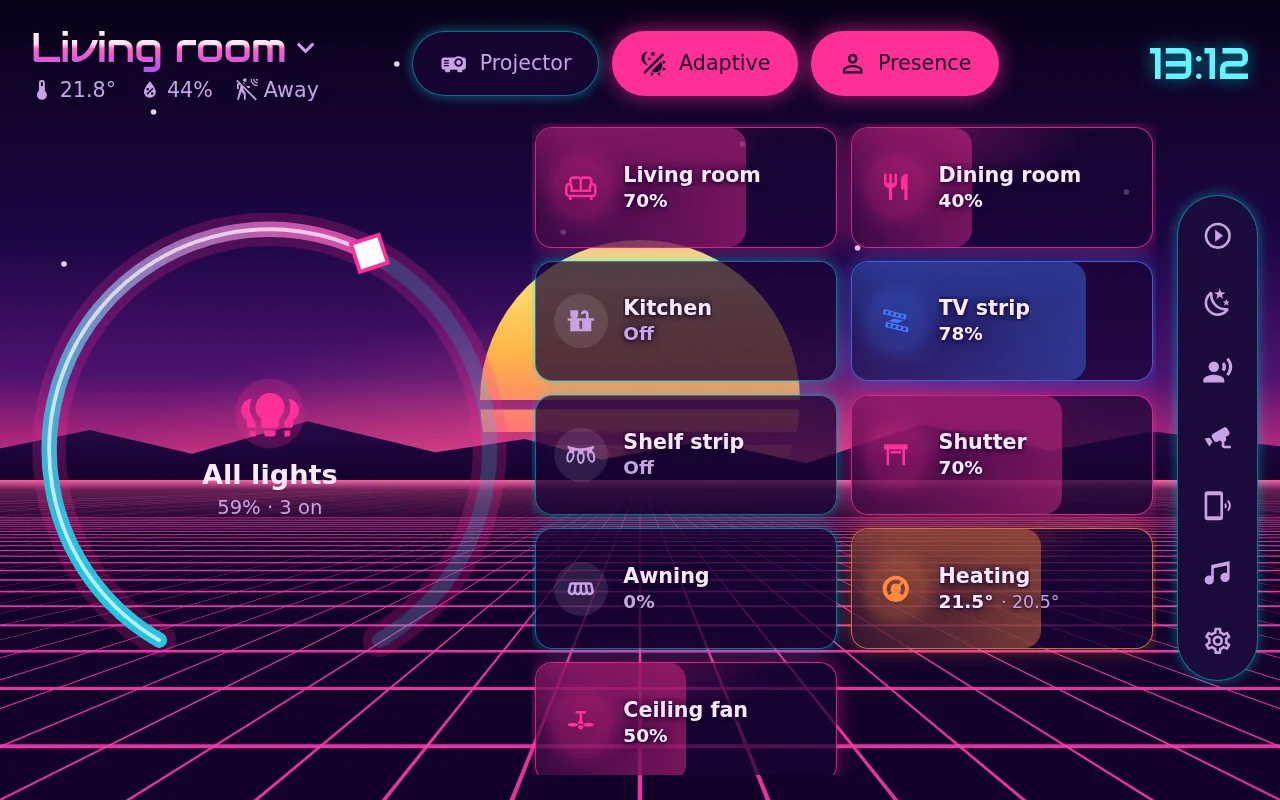
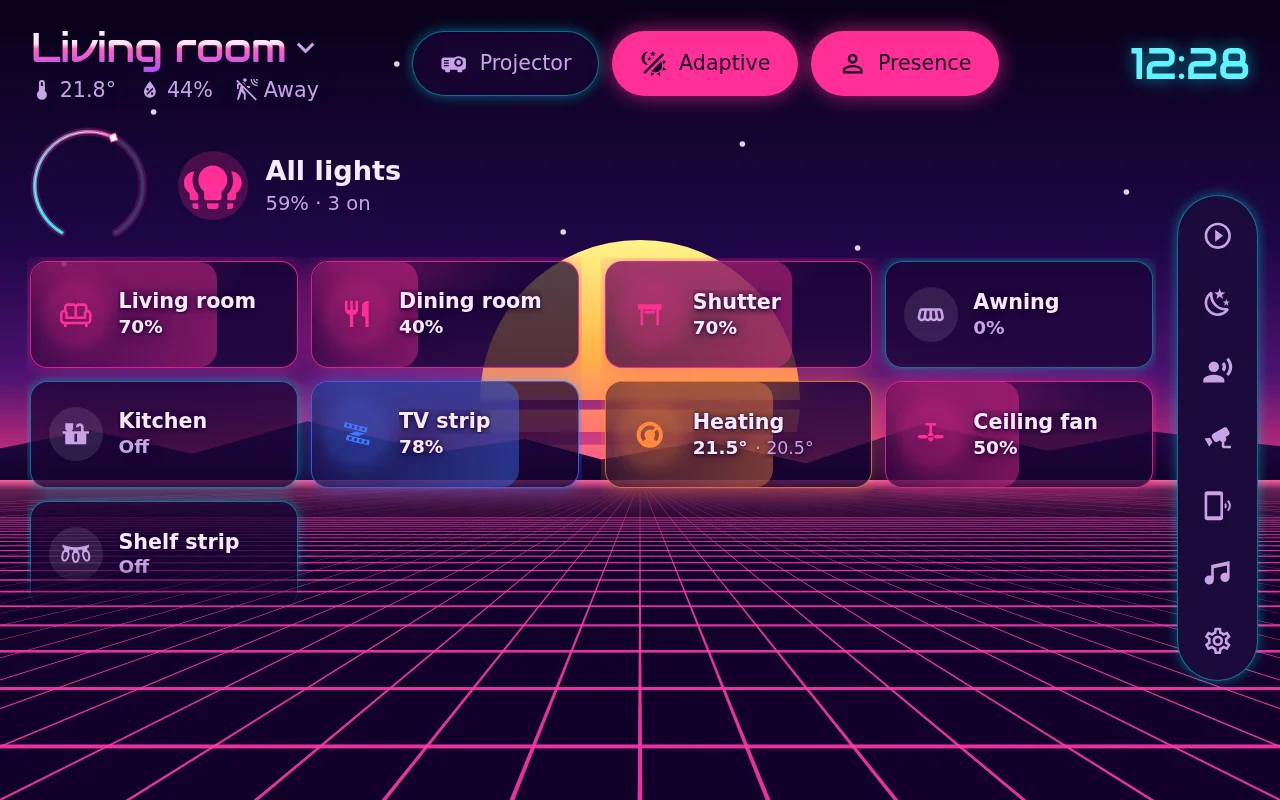
Lights apart on the Show, and tiles shown when
On the Show, a room with covers, thermostats or fans as well as lights
keeps them apart: the dial as a small ring, its light tiles under it and
above the media card, the others beside them, their rows on the same
lines; the room's events stay at the top, beside the ring. Light tiles
that run under the media card fade out until scrolled to. A single tile
is as large as one of two in a row.

Lights, covers, thermostats and fans take a showWhen, like a sensor's:
the tile shows only while it holds. On the Spot the strip pairs the tiles
shown; on the Show, with no light left to show, the others keep the grid
beside a full dial, and the lights move under it again when they show.

The documentation's screenshots are refreshed.

diff --git a/js/view.js b/js/view.js
@@ -168,8 +168,14 @@
     if (shape === 'round') {
       lights.append(...tiles);
       if (media) lights.appendChild(media);
-      // a last tile without a pair comes to rest beside the one before it, not beside the card
-      if (media && tiles.length % 2) tiles[tiles.length - 1].classList.add('alone');
+      // The tiles shown, in pairs: the first of each marked; a last one
+      // without a pair comes to rest beside the one before it, not beside the
+      // card. Again whenever a tile's showWhen shows or hides it.
+      const pairUp = () => {
+        const shown = tiles.filter((t) => !t.hidden);
+        tiles.forEach((t) => { setClass(t, 'pair', shown.indexOf(t) % 2 === 0); setClass(t, 'alone', !!media && shown.length % 2 === 1 && t === shown[shown.length - 1]); });
+        requestAnimationFrame(() => updateDots());
+      };
       // A dot for each place the strip comes to rest: each pair of tiles
       // (and the card) in the middle, as far as the strip goes. A drag across
       // a tile sets its level, so the dots move the strip: a swipe on them
@@ -202,13 +208,44 @@
         [...dots.children].forEach((d, j) => setClass(d, 'on', j === near));
       };
       if (media) media.onvisibility = () => requestAnimationFrame(updateDots);
+      pairUp();
+      new MutationObserver(pairUp).observe(lights, { attributes: true, attributeFilter: ['hidden'], subtree: true });
       let t = null;
       lights.addEventListener('scroll', () => { if (!t) t = requestAnimationFrame(() => { t = null; updateDots(); }); }, { passive: true });
       new ResizeObserver(updateDots).observe(lights);
     } else {
+      // When the room has covers, thermostats or fans too, its light tiles
+      // go under the dial, above the media card, the ring small beside the
+      // name; the grid beside holds the others.
+      // As a tile's showWhen shows or hides it, the lights move back beside
+      // the dial when they or the others have none left to show.
+      const own = (room.lights || []).length, ownTiles = tiles.slice(0, own), others = tiles.slice(own);
       if (list) lights.appendChild(list);
-      for (const t of tiles) lights.appendChild(t);
-      lights.dataset.count = String(tiles.length);
+      lights.append(...tiles);
+      if (own && others.length) {
+        const side = el('div', 'lights');
+        side.hidden = true;
+        controls.insertBefore(side, media);
+        // the grid beside starts on the line of the first light tiles, for their rows to line up
+        new ResizeObserver(() => view.style.setProperty('--beside', `${side.offsetTop - controls.offsetTop}px`)).observe(main);   // both grids' own edges alike
+        // more tiles than show fade out at the foot, until scrolled to the last
+        const more = () => setClass(side, 'more', side.scrollTop + side.clientHeight < side.scrollHeight - 2);
+        side.addEventListener('scroll', more, { passive: true });
+        new ResizeObserver(more).observe(side);
+        let apart = false;
+        const arrange = () => {
+          const shown = (t) => !t.hidden, now = ownTiles.some(shown) && others.some(shown);
+          if (now === apart) return;
+          apart = now;
+          if (apart) side.append(...ownTiles);
+          else others[0].before(...ownTiles);   // back first in the grid beside, after the events
+          side.hidden = !apart;
+          setClass(controls, 'with-lights', apart);
+          setClass(view, 'lights-left', apart);
+        };
+        arrange();
+        new MutationObserver(arrange).observe(view, { attributes: true, attributeFilter: ['hidden'], subtree: true });
+      }
     }
     view.appendChild(lights);
     // The stylesheet gives a room without modes, or with nothing but its main slider, more room.

diff --git a/css/wide.css b/css/wide.css
@@ -15,10 +15,24 @@
 .shape-wide .controls { grid-area: controls; display: flex; flex-direction: column; gap: 0.75rem; min-height: 0; }
 /* the dial takes what the media card leaves */
 .shape-wide .main { flex: 1 1 0; min-height: 4.2rem; display: grid; grid-template-rows: minmax(0, 1fr); }   /* the column's height, not its content's */
-.shape-wide .with-media .main { flex: none; }
+.shape-wide :is(.with-media, .with-lights) .main { flex: none; }
+/* the light tiles under the dial, above the media card, when the grid beside
+   holds the room's covers, thermostats and fans: as tall as they need, the
+   rest of them a swipe up away */
+.shape-wide .controls > .lights { flex: 0 1 auto; min-height: 0; }
+.shape-wide .controls > .lights.more { -webkit-mask-image: linear-gradient(#000 calc(100% - 2.2rem), transparent); mask-image: linear-gradient(#000 calc(100% - 2.2rem), transparent); }   /* more under the card: fading out */
+/* the two halves alike, for the tiles on either side to be of one size */
+.shape-wide .view.lights-left { grid-template-columns: minmax(0, 1fr) minmax(0, 1fr); }
+.shape-wide .app.with-rail .view.lights-left { grid-template-columns: minmax(0, 1fr) minmax(0, 1fr) calc(var(--rail-item) + 0.4rem); }
+/* the grid beside: its tiles start on the line of the first light tiles,
+   under the ring (--beside, from js/view.js), their rows side by side; the
+   room's events stay at its top, beside the ring, as tall as it */
+.shape-wide .view.lights-left > .lights { margin-top: var(--beside, 0px); }
+.shape-wide .view.lights-left.with-events > .lights { margin-top: -0.15rem; grid-template-rows: calc(var(--beside, 0px) - 0.45rem); }
+.shape-wide .view.lights-left.with-events > .lights > .events { min-height: 0; overflow: hidden; }
 /* the rail on the right: a column of its own under the header */
 .shape-wide .app.with-rail .view { grid-template-columns: minmax(0, var(--controls)) minmax(0, 1fr) calc(var(--rail-item) + 0.4rem); grid-template-areas: "top top top" "controls lights ."; }
-/* the tiles, two across, of one shape on every Show: two and a half times
+/* the tiles, two across (a single one too), of one shape on every Show: two and a half times
    as wide as tall (taller only for what they hold); past the screen's
    height the grid scrolls */
 .shape-wide .lights {
@@ -26,7 +40,6 @@
   overflow-y: auto; touch-action: pan-y; scrollbar-width: none; padding: 0.15rem; margin: -0.15rem;
 }
 .shape-wide .lights::-webkit-scrollbar { display: none; }
-.shape-wide .lights[data-count="1"] { grid-template-columns: minmax(0, 1fr); }
 /* a tile (lying across, view.css): a drag across it sets its level, a
    swipe up or down scrolls the grid */
 .shape-wide .lights > :where(.tile:not(.events)) { aspect-ratio: 5 / 2; min-height: min-content; touch-action: pan-y; }

diff --git a/css/view.css b/css/view.css
@@ -112,13 +112,14 @@ span.title-btn { cursor: default; }
 }
 .dial-centre .bar-text { align-items: center; max-width: 100%; }
 .dial-centre.pressed { background: var(--surface-2); transform: translate(-50%, -50%) scale(0.96); }
-/* with the media card on screen (.with-media on the view): a row, the ring small beside the name */
-.with-media .controls .bar { display: block; }
-.with-media .controls .dial.gauge { display: flex; align-items: center; gap: 0.6rem; height: auto; }
-.with-media .controls .dial.gauge > svg { width: 5.4rem; height: 5.4rem; flex: none; }
-.with-media .controls .dial-centre { position: static; transform: none; width: auto; flex: 1; flex-direction: row; justify-content: flex-start; text-align: left; gap: 0.8rem; padding: 0.5rem 0.8rem; }
-.with-media .controls .dial-centre.pressed { transform: scale(0.98); }
-.with-media .controls .dial-centre .bar-text { align-items: flex-start; }
+/* with the media card on screen (.with-media on the view), or the light tiles under it: a row, the
+   ring small beside the name */
+:is(.with-media .controls, .controls.with-lights) .bar { display: block; }
+:is(.with-media .controls, .controls.with-lights) .dial.gauge { display: flex; align-items: center; gap: 0.6rem; height: auto; }
+:is(.with-media .controls, .controls.with-lights) .dial.gauge > svg { width: 5.4rem; height: 5.4rem; flex: none; }
+:is(.with-media .controls, .controls.with-lights) .dial-centre { position: static; transform: none; width: auto; flex: 1; flex-direction: row; justify-content: flex-start; text-align: left; gap: 0.8rem; padding: 0.5rem 0.8rem; }
+:is(.with-media .controls, .controls.with-lights) .dial-centre.pressed { transform: scale(0.98); }
+:is(.with-media .controls, .controls.with-lights) .dial-centre .bar-text { align-items: flex-start; }
 /* the main slot: its lights stacked, the current one shown. The others wait
    faded out, a slot's width away on the side they come in from (--side, set
    by js/view.js; 0 crossfades in place), hidden from touch as well. */

diff --git a/js/controls.js b/js/controls.js
@@ -148,6 +148,8 @@
   // long-press `open`. When the tile `slide`s, a drag across it sets the
   // level where the finger is (onPreview and onCommit of a fraction), on the
   // Spot as on the Show; on the Show a swipe up or down scrolls the tiles.
+  // With a showWhen, the tile shows only while it holds (sensorIds: the
+  // entities it watches).
   function tileFrame(cfg, { icon: ic, tap, open, slide }) {
     const node = el('div', 'tile' + (slide ? ' slides' : ''));
     node.innerHTML = `<span class="tile-fill"></span><span class="tile-icon">${icon(ic)}</span>`
@@ -155,6 +157,7 @@
       + '<span class="tile-line"><span class="tile-state"></span><span class="tile-extra"></span></span>';
     if (slide) attachTrack(node, { ...slide, onTap: tap, onHold: open, lock: true });
     else attachPress(node, { onTap: tap, onHold: open });
+    if (cfg.showWhen) watch(sensorIds(cfg), () => { node.hidden = !matches(cfg.showWhen, cfg.entity); });
     return { node, iconEl: node.querySelector('.tile-icon'), stateEl: node.querySelector('.tile-state'), extraEl: node.querySelector('.tile-extra') };
   }
 

diff --git a/css/round.css b/css/round.css
@@ -107,7 +107,7 @@
 .shape-round .lights::-webkit-scrollbar { display: none; }
 .shape-round .lights::before, .shape-round .lights::after { content: ""; flex: 1 0 calc(20% - var(--gap) * 1.5); }
 .shape-round .lights > .tile { flex: none; width: 30%; margin-top: 2.3rem; }
-.shape-round .lights > .tile:nth-child(odd) { scroll-snap-align: start; }   /* the first of each pair */
+.shape-round .lights > .tile.pair { scroll-snap-align: start; }   /* the first of each pair (js/view.js) */
 .shape-round .lights > .tile.alone { scroll-snap-align: end; }   /* a last one alone, before the card: with the one before it */
 .shape-round .lights > .media { flex: none; width: calc(60% + var(--gap)); margin-top: 0.6rem; scroll-snap-align: center; }
 .shape-round .lights > :where(.tile) { padding: 0.65rem 0.55rem; column-gap: 0.45rem; touch-action: none; }   /* a drag across sets its level */

diff --git a/js/main.js b/js/main.js
@@ -43,8 +43,8 @@
       for (const s of r.sensors || []) ids.push(...sensorIds(s));
       for (const c of r.modes || []) ids.push(c.entity);
       if (r.main) ids.push(r.main.entity);
-      for (const l of r.lights || []) { ids.push(l.entity); for (const c of l.controls || []) ids.push(c); }
-      for (const c of [...(r.covers || []), ...(r.climate || []), ...(r.fans || [])]) ids.push(c.entity);
+      for (const l of r.lights || []) for (const c of l.controls || []) ids.push(c);
+      for (const c of [...(r.lights || []), ...(r.covers || []), ...(r.climate || []), ...(r.fans || [])]) ids.push(...sensorIds(c));
       if (r.media) { ids.push(r.media.entity); if (r.media.showWhen) ids.push(r.media.showWhen.entity); }
       const events = eventsOf(r);
       if (events) ids.push(...events.calendars.map((c) => c.entity));

diff --git a/config.example.js b/config.example.js
@@ -140,6 +140,8 @@ window.KIOSK_CONFIG = {
   //                  across sets the target temperature; the panel has modes and presets.
   // fans             tiles after the thermostats for fans: tap turns on or off; a drag across
   //                  sets the speed; the panel has preset modes, oscillation and direction.
+  //                  Lights, covers, thermostats and fans take a showWhen too, like a
+  //                  sensor's: the tile shows only while it holds.
   // media            a player card, shown while showWhen holds (or always)
   // player           the Music Assistant player (or group of players) the menu's
   //                  favourites play on, for the kiosks that belong to this room

diff --git a/docs/configuration.md b/docs/configuration.md
@@ -113,10 +113,11 @@ sensors: { entity, icon, unit, digits, showWhen? }
          { entity, icon, iconOff, on: 'Present', off: 'Away' }     // a binary sensor
 modes:   { entity, name, icon }
          { entity, name, icon, turnOn: 'script.a', turnOff: 'script.b' }
-main, lights: { entity, name, icon, controls?: ['select.x', 'number.y'] }
-covers:  { entity, name, icon?, iconOpen? }
-climate: { entity, name, icon? }
-fans:    { entity, name, icon? }
+main:    { entity, name, icon, controls?: ['select.x', 'number.y'] }
+lights:  { entity, name, icon, controls?: ['select.x', 'number.y'], showWhen? }
+covers:  { entity, name, icon?, iconOpen?, showWhen? }
+climate: { entity, name, icon?, showWhen? }
+fans:    { entity, name, icon?, showWhen? }
 media:   { entity, name, icon, showWhen?: { entity, state } }
 player:  'media_player.x'
 music:   ['radio', 'playlist']
@@ -141,8 +142,9 @@ events:  { calendars: ['calendar.x' | { entity, color }], period?, max?, chip?, 
 
 ### Shown when
 
-`showWhen` on a sensor (or an alert, or the media card) shows it only while a state
-holds, of its own entity or of another one named with `entity`:
+`showWhen` on a sensor (or an alert, the media card, or a light's, cover's, thermostat's
+or fan's tile) shows it only while a state holds, of its own entity or of another one
+named with `entity`:
 
 ```js
 showWhen: { state: 'on' }                  // 'on' when not given; or a list: ['open', 'opening']
@@ -151,7 +153,8 @@ showWhen: { above: 1000 }                  // a number above, below, or both
 showWhen: { entity: 'input_boolean.guests', state: 'on' }   // another entity's state
 ```
 
-The example's living room shows its CO2 level only above 1000 ppm.
+The example's living room shows its CO2 level only above 1000 ppm. A tile that hides
+leaves no gap: the tiles after it move up, on the Spot the strip pairs the tiles shown.
 
 ### Alerts
 

diff --git a/CHANGELOG.md b/CHANGELOG.md
@@ -31,6 +31,9 @@ zip of the files to copy to Home Assistant ([Updating](docs/setup.md#updating)).
   turns one on or off, a drag across the tile sets its speed in the fan's own steps; the
   panel has the speed and chips for its preset modes, oscillation and direction
   ([Rooms](docs/configuration.md#rooms)).
+- **Tiles shown when**: a light, cover, thermostat or fan in your `config.js` takes a
+  `showWhen`, like a sensor's: its tile shows only while it holds, for example only while
+  the projector is on ([Shown when](docs/configuration.md#shown-when)).
 - **Icons alone on the Spot's menu**: `menu: { labels: false }` in your `config.js` leaves
   the names off the ring's buttons, which take the size of the main light's power button;
   the favourites keep theirs ([Menu](docs/configuration.md#menu)).
@@ -50,6 +53,9 @@ zip of the files to copy to Home Assistant ([Updating](docs/setup.md#updating)).
   under them, or a tap beside them, brings the next two.
 - **No arrows on the menu's folders**: Music, Settings and Find my phone open as before,
   without the small arrow in their corner.
+- **Lights apart on the Show**: in a room with covers, thermostats or fans as well, the light
+  tiles sit under the dial (a small ring beside the name) and above the media card, the
+  others beside them, their rows on the same lines.
 - **Echo Show 8**: laid out as the Show 5, larger: the page scales with the width of a
   Show as well as its height, so the dial and the tiles share the screen alike.
 

diff --git a/docs/features.md b/docs/features.md
@@ -19,7 +19,9 @@ What the page does, screen by screen. [Configuration](configuration.md) says how
   drag across it dims that light alone, long-press opens the panel. After them, the room's
   covers, thermostats and fans as tiles of their own (see *Covers, thermostats and fans*). Both grow
   to fill the screen; with the media card on, the dial shrinks to a small ring beside the
-  name.
+  name. A room with covers, thermostats or fans as well as lights keeps them apart: the
+  dial as a small ring, its light tiles under it and above the media card, the others
+  beside them, their rows on the same lines.
 - **Spot.** The dial is a thick rim along the edge of the round screen. From the top: the
   room title, the sensors and the modes as round icons; a large power button for the
   room's lights beside their name and state, faint arrows either side; under it a strip
